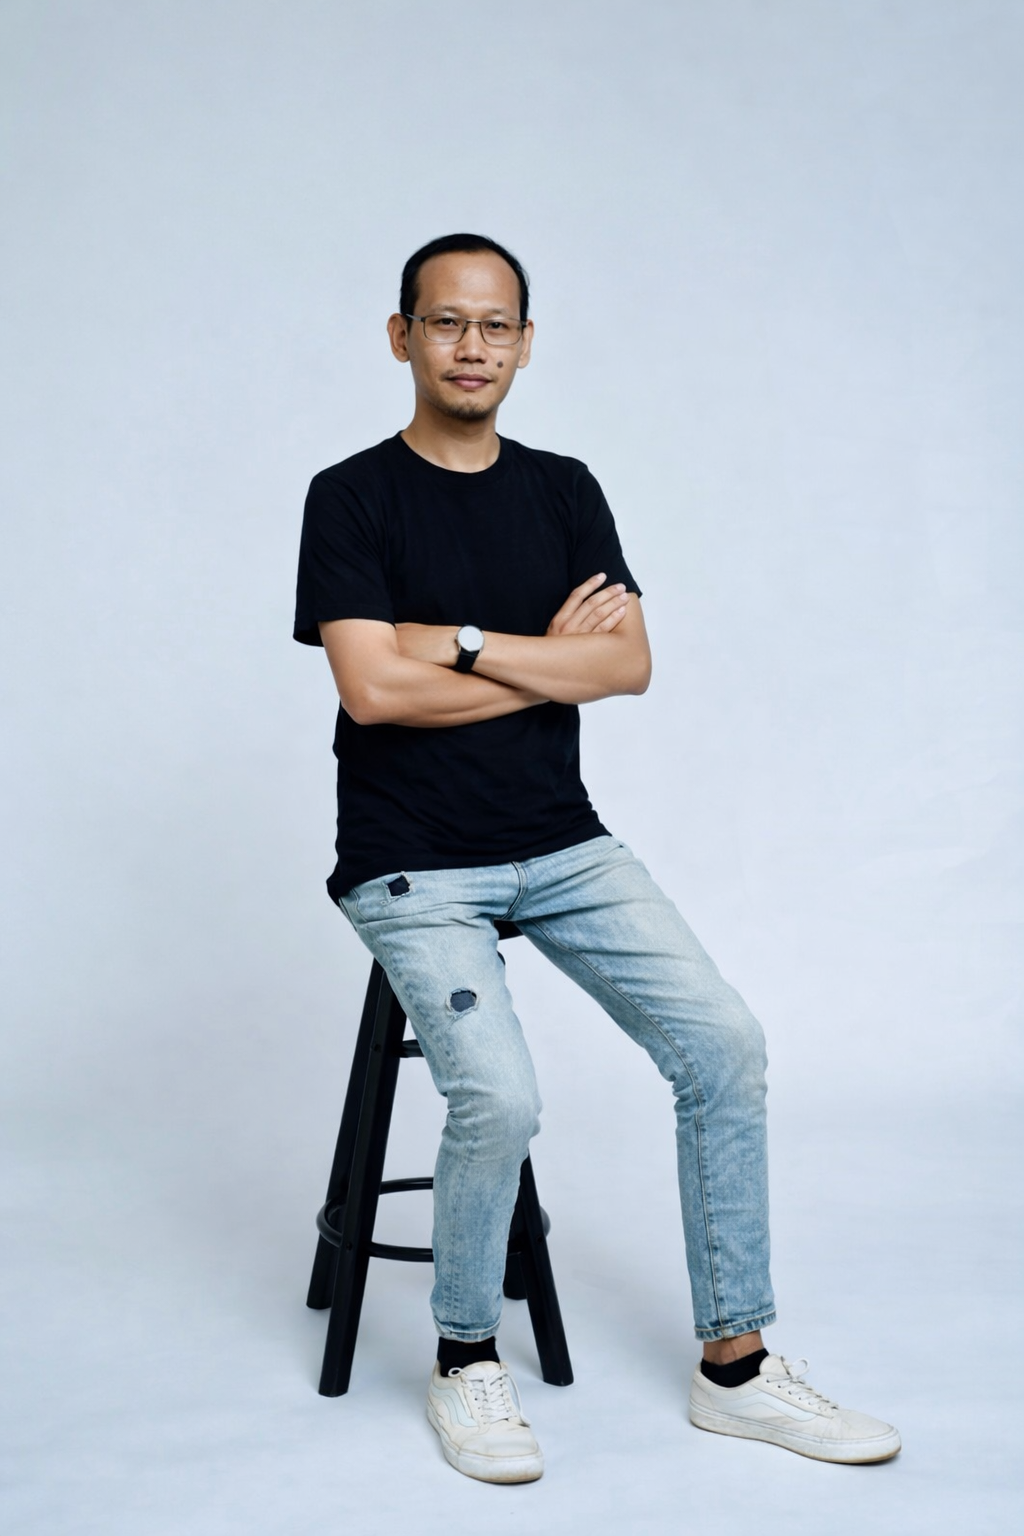
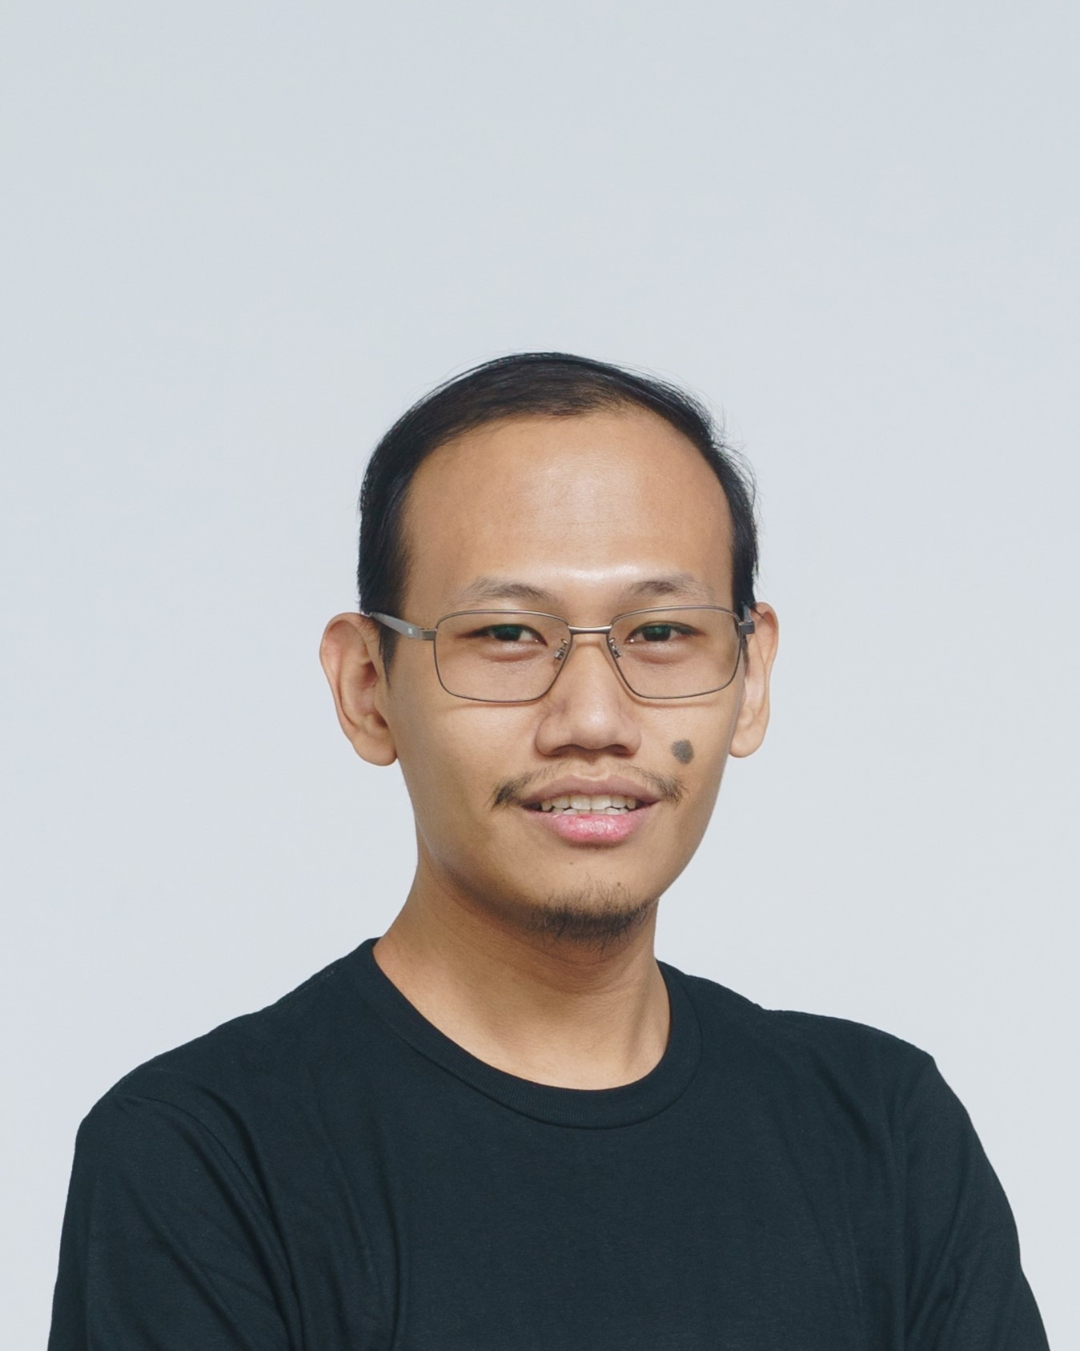
update: replace photo with closeup headshot, circular frame treatment
- Replaced full-body photo with professional closeup headshot
- Hero: 180px circular frame with subtle border and shadow
- About page: 220px circular frame with hover grayscale-to-color effect
- Mobile: smaller 100px/160px circles
- Subtle grayscale filter that removes on hover

diff --git a/pages.css b/pages.css
@@ -194,15 +194,46 @@
 }
 
 .about-lab__visual {
-  border-radius: var(--radius-lg);
   overflow: hidden;
   position: relative;
+  display: flex;
+  align-items: flex-start;
+  justify-content: center;
 }
 
 .about-lab__visual img {
   width: 100%;
   height: auto;
   border-radius: var(--radius-lg);
+}
+
+/* Headshot-specific styling for closeup face photo */
+.about-headshot {
+  width: 220px !important;
+  height: 220px !important;
+  border-radius: 50% !important;
+  object-fit: cover;
+  object-position: center 15%;
+  border: 3px solid var(--color-border);
+  box-shadow: var(--shadow-md);
+  transition: filter 0.4s ease, box-shadow 0.4s ease;
+  filter: grayscale(15%);
+}
+
+.about-headshot:hover {
+  filter: grayscale(0%);
+  box-shadow: var(--shadow-lg), 0 0 0 6px rgba(255,107,53,0.1);
+}
+
+[data-theme="dark"] .about-headshot {
+  border-color: var(--color-border);
+}
+
+@media (max-width: 768px) {
+  .about-headshot {
+    width: 160px !important;
+    height: 160px !important;
+  }
 }
 
 .about-lab__chapter {
@@ -760,43 +791,54 @@
    ========================== */
 .hero__photo-float {
   position: absolute;
-  right: 5%;
+  right: 8%;
   top: 50%;
   transform: translateY(-50%);
   z-index: 1;
-  width: 320px;
-  height: 420px;
+  width: 180px;
+  height: 180px;
   overflow: hidden;
-  border-radius: 16px;
-  opacity: 0.12;
+  border-radius: 50%;
+  opacity: 0.9;
   pointer-events: none;
-  clip-path: polygon(10% 0%, 100% 0%, 100% 100%, 0% 100%);
+  border: 3px solid var(--color-border);
+  box-shadow: var(--shadow-lg);
 }
 
 .hero__photo-float img {
   width: 100%;
   height: 100%;
   object-fit: cover;
-  object-position: top center;
-  filter: grayscale(30%);
+  object-position: center 20%;
+  filter: grayscale(20%);
+}
+
+.hero__photo-float:hover img {
+  filter: grayscale(0%);
 }
 
 [data-theme="dark"] .hero__photo-float {
-  opacity: 0.08;
+  opacity: 0.85;
+  border-color: var(--color-border);
 }
 
 @media (max-width: 1024px) {
   .hero__photo-float {
-    width: 240px;
-    height: 320px;
-    right: 2%;
-    opacity: 0.08;
+    width: 140px;
+    height: 140px;
+    right: 4%;
   }
 }
 
 @media (max-width: 768px) {
   .hero__photo-float {
-    display: none;
+    position: relative;
+    right: auto;
+    top: auto;
+    transform: none;
+    width: 100px;
+    height: 100px;
+    margin-bottom: 1.5rem;
   }
 }
 

diff --git a/about.html b/about.html
@@ -95,7 +95,7 @@
         <div class="about-lab__inner">
           <div class="about-lab__visual img-reveal" data-cursor="image">
             <div class="img-reveal__overlay"></div>
-            <img src="assets/azzam-photo.png" alt="Ahmad Azzam Fuadie — Senior Biddable Media Specialist" loading="lazy" style="border-radius: 12px; max-width: 360px; width: 100%;">
+            <img src="assets/azzam-photo.png" alt="Ahmad Azzam Fuadie — Senior Biddable Media Specialist" loading="lazy" class="about-headshot">
           </div>
           <div>
             <p class="about-lab__chapter">Chapter 01 — The Lab Years</p>
